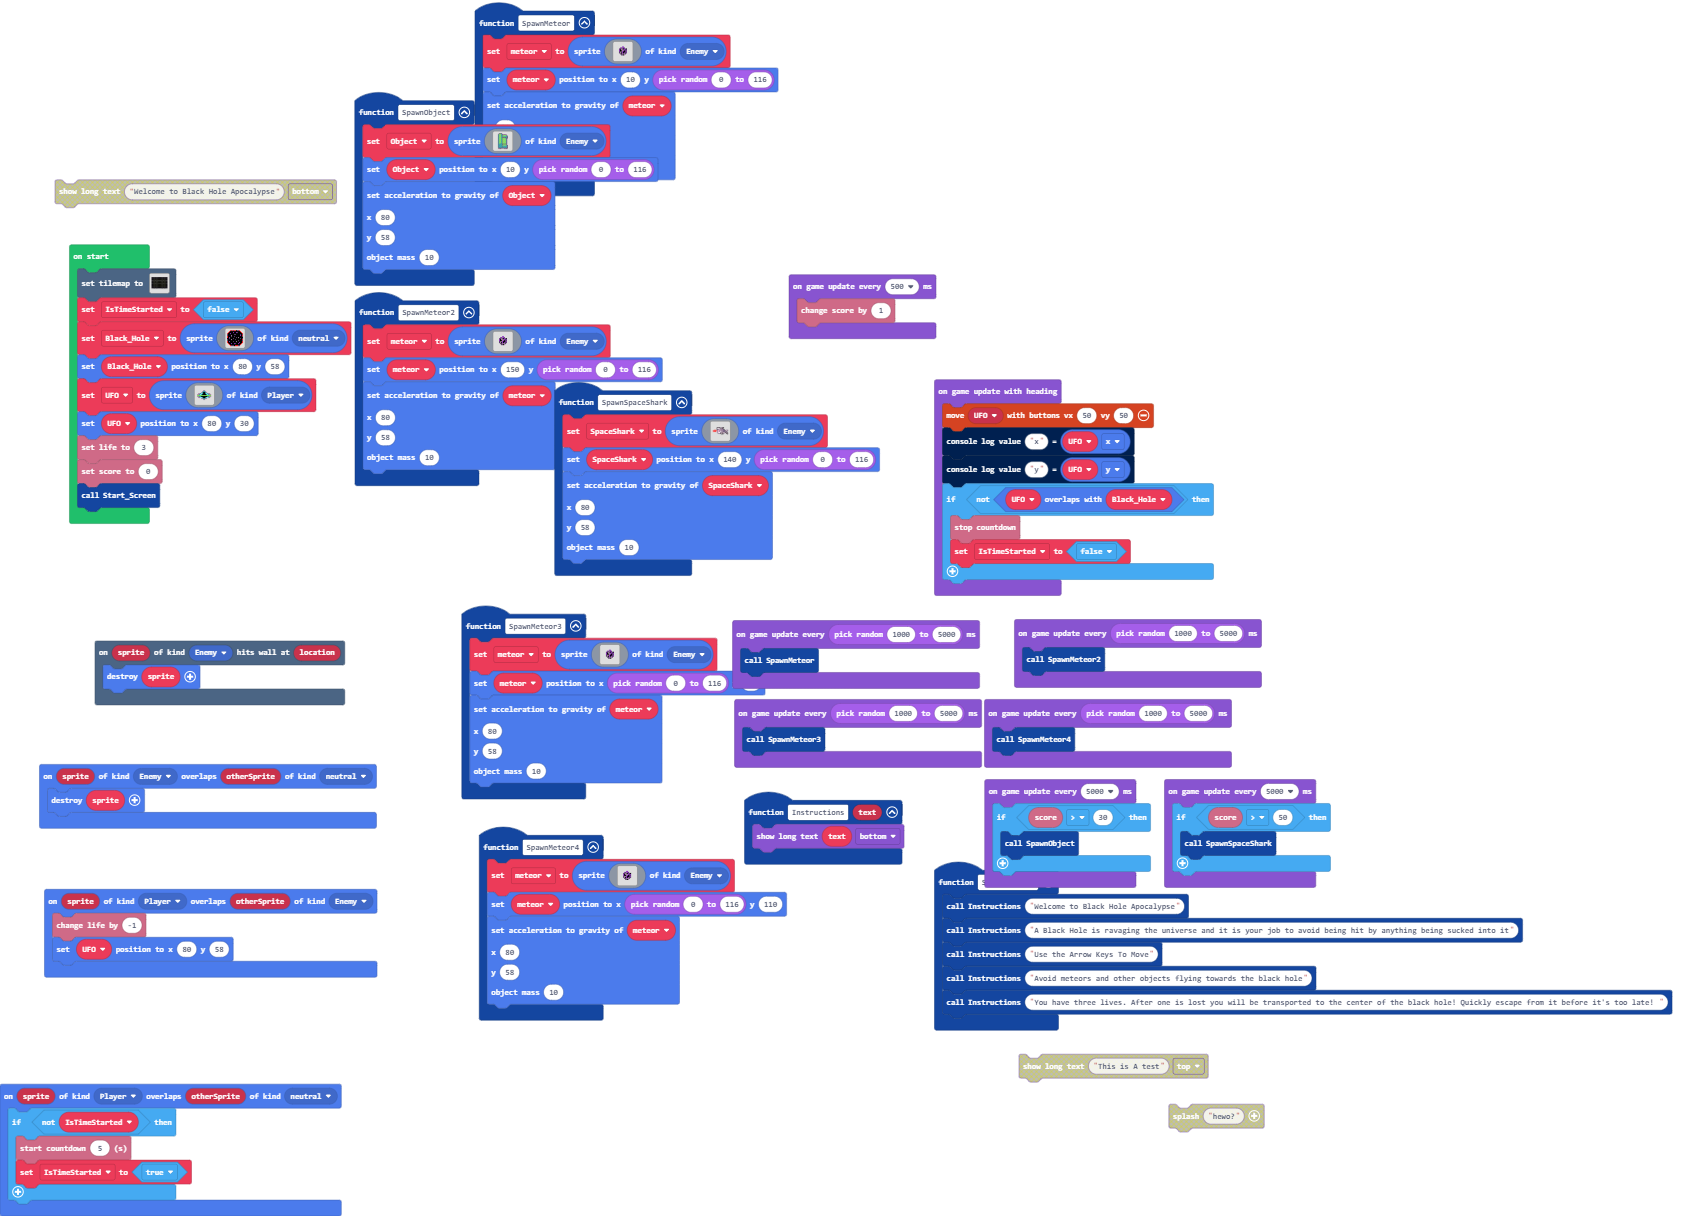
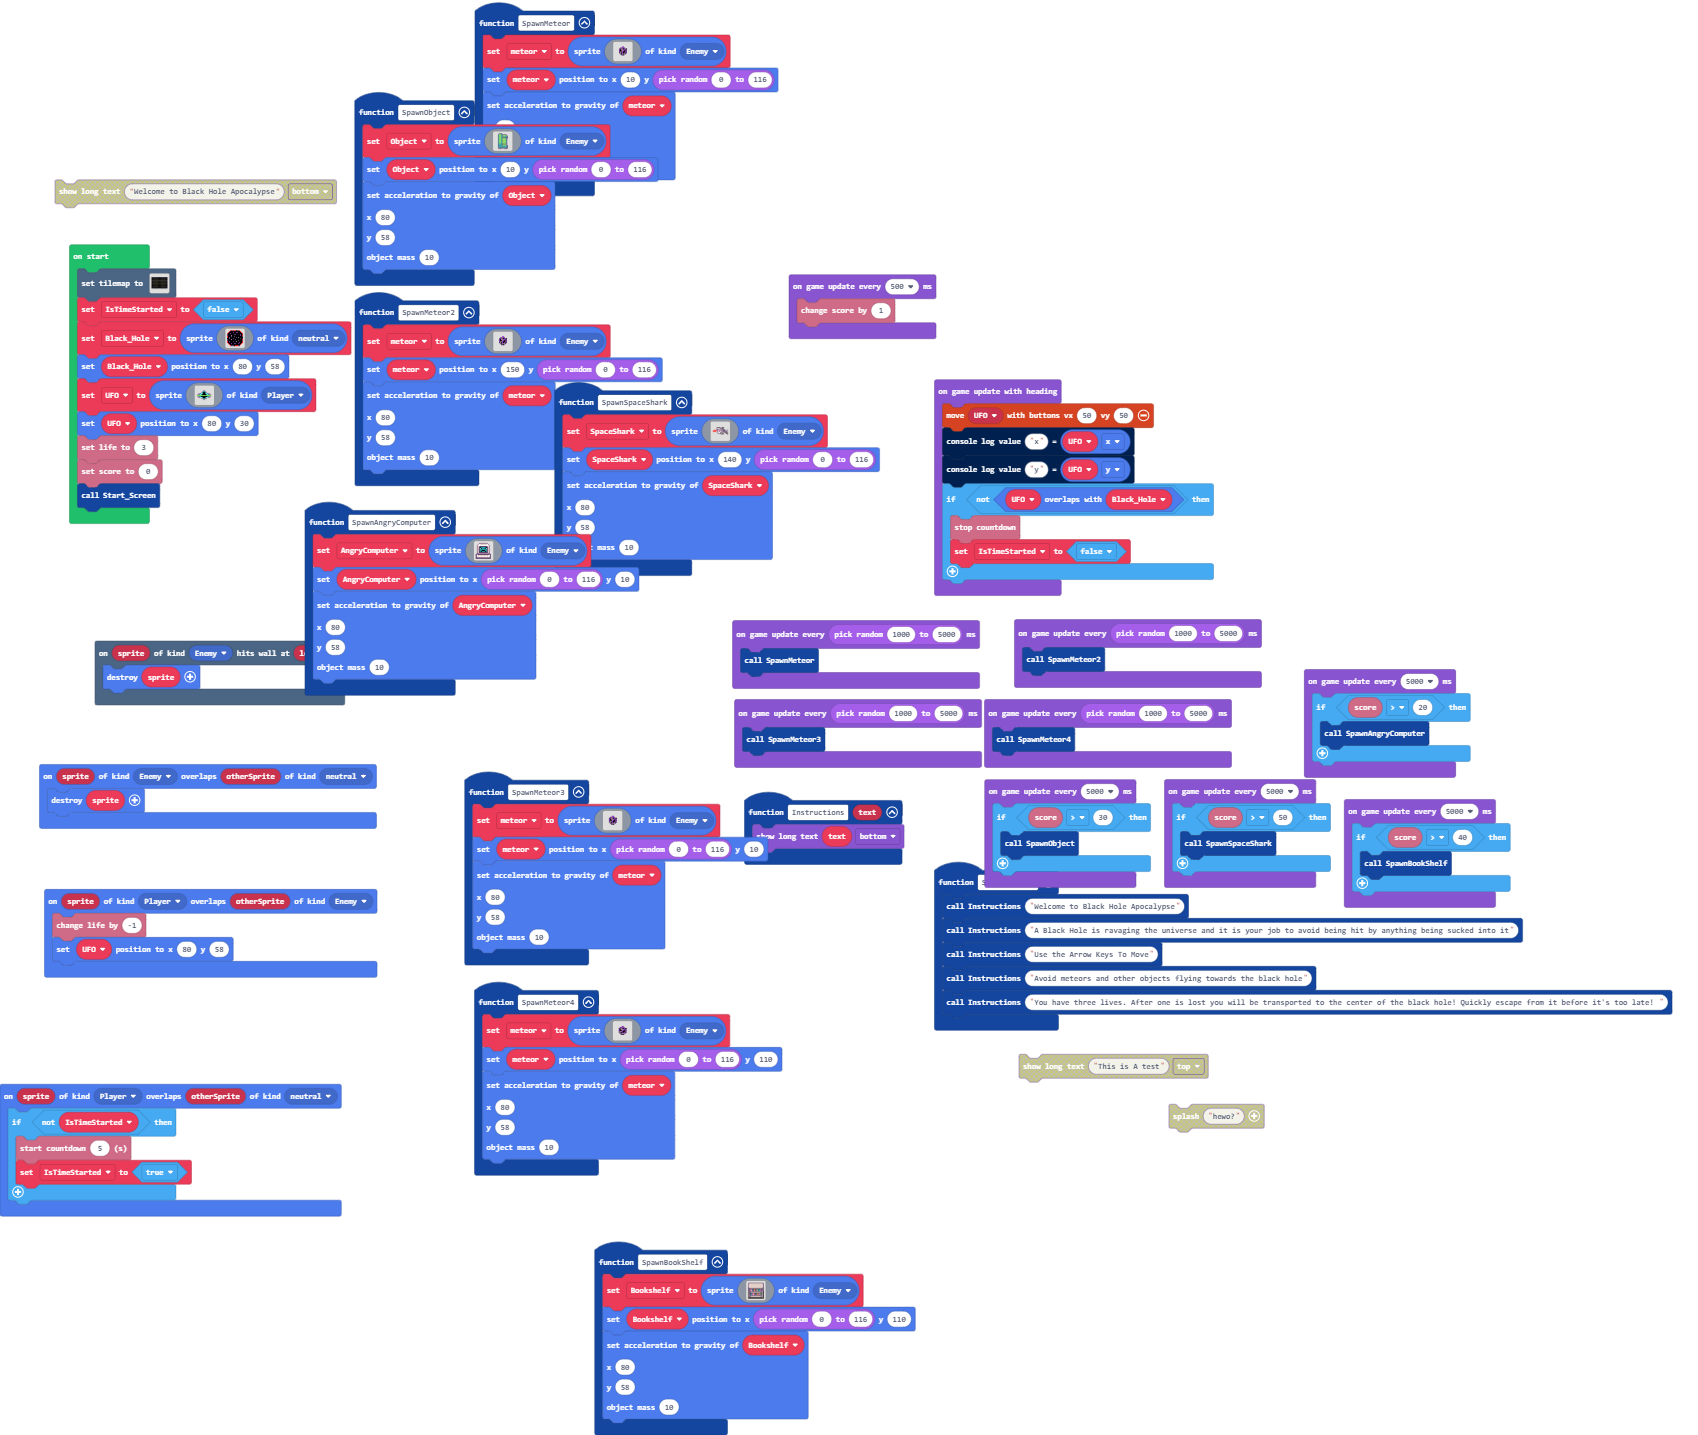
Update main.blocks, main.ts

diff --git a/main.ts b/main.ts
@@ -91,6 +91,41 @@ function SpawnMeteor2 () {
     10
     )
 }
+function SpawnBookShelf () {
+    Bookshelf = sprites.create(img`
+        . c c c c c c c c c c c c c c c c c c c c c c . 
+        c b d d d d d d d d d d d d d d d d d d d d b c 
+        c d d d d d d d d d d d d d d d d d d d d d d c 
+        c d d d d d d d d d d d d d d d d d d d d d d c 
+        c d d d d d d d d d d d d d d d d d d d d d d c 
+        c d d d d d d d d d d d d d d d d d d d d d d c 
+        c d d d d d d d d d d d d d d d d d d d d d d c 
+        c b d d d d d d d d d d d d d d d d d d d d b c 
+        c c b b b b b b b b b b b b b b b b b b b b c c 
+        c c f f f f f f f f f f f f f f f f f f f f c c 
+        c b c c 3 3 c 6 c 4 4 c 3 c 7 c 6 6 c 3 c c b c 
+        c b c c 3 3 c 6 c 4 4 c 3 c 7 c 6 6 c 3 c c b c 
+        f b c c 3 3 c 6 c 4 4 c c c 7 c 6 6 c 3 c c b f 
+        f d c c c c c c c c c c c c c c c c c c c c d f 
+        f d c b b d d d d d d d d d d d d d d b b c d f 
+        f d f f f f f f f f f f f f f f f f f f f f d f 
+        f d c c c 6 c 3 3 c 4 c 6 c 4 4 c 3 c 7 c c d f 
+        f d c c c 6 c 3 3 c 4 c 6 c 4 4 c 3 c 7 c c d f 
+        f d c c c 6 c 3 3 c c c 6 c 4 4 c c c 7 c c d f 
+        f d c c c c c c c c c c c c c c c c c c c c d f 
+        f d c b b d d d d d d d d d d d d d d b b c d f 
+        f d c b b d d d d d d d d d d d d d d b b c d f 
+        f d f f f f f f f f f f f f f f f f f f f f d f 
+        f f f f f f f f f f f f f f f f f f f f f f f f 
+        `, SpriteKind.Enemy)
+    Bookshelf.setPosition(randint(0, 116), 110)
+    sprites.setInstant2DGravityAcceleration(
+    Bookshelf,
+    80,
+    58,
+    10
+    )
+}
 function Instructions (text: string) {
     game.showLongText(text, DialogLayout.Bottom)
 }
@@ -116,6 +151,33 @@ function SpawnMeteor4 () {
     meteor.setPosition(randint(0, 116), 110)
     sprites.setInstant2DGravityAcceleration(
     meteor,
+    80,
+    58,
+    10
+    )
+}
+function SpawnAngryComputer () {
+    AngryComputer = sprites.create(img`
+        . . . b b b b b b b b b . . . . 
+        . . b 1 d d d d d d d 1 b . . . 
+        . b 1 1 1 1 1 1 1 1 1 1 1 b . . 
+        . b d b c c c c c c c b d b . . 
+        . b d c f 6 6 6 6 6 f c d b . . 
+        . b d c 9 f 6 6 6 f 9 c d b . . 
+        . b d c 6 6 6 6 6 6 6 c d b . . 
+        . b d c 6 6 f f f 6 6 c d b . . 
+        . b d c 6 f 6 6 6 f 6 c d b . . 
+        . b d c c c c c c c c c d b . . 
+        . c b b b b b b b b b b b c . . 
+        c b c c c c c c c c c c c b c . 
+        c 1 d d d d d d d d d d d 1 c . 
+        c 1 d 1 1 d 1 1 d 1 1 d 1 1 c . 
+        c b b b b b b b b b b b b b c . 
+        c c c c c c c c c c c c c c c . 
+        `, SpriteKind.Enemy)
+    AngryComputer.setPosition(randint(0, 116), 10)
+    sprites.setInstant2DGravityAcceleration(
+    AngryComputer,
     80,
     58,
     10
@@ -207,6 +269,8 @@ sprites.onOverlap(SpriteKind.Player, SpriteKind.Enemy, function (sprite, otherSp
     UFO.setPosition(80, 58)
 })
 let Object2: Sprite = null
+let AngryComputer: Sprite = null
+let Bookshelf: Sprite = null
 let SpaceShark: Sprite = null
 let meteor: Sprite = null
 let UFO: Sprite = null
@@ -264,6 +328,11 @@ info.setLife(3)
 info.setScore(0)
 Start_Screen()
 game.onUpdateInterval(5000, function () {
+    if (info.score() > 20) {
+        SpawnAngryComputer()
+    }
+})
+game.onUpdateInterval(5000, function () {
     if (info.score() > 30) {
         SpawnObject()
     }
@@ -271,6 +340,11 @@ game.onUpdateInterval(5000, function () {
 game.onUpdateInterval(5000, function () {
     if (info.score() > 50) {
         SpawnSpaceShark()
+    }
+})
+game.onUpdateInterval(5000, function () {
+    if (info.score() > 40) {
+        SpawnBookShelf()
     }
 })
 game.onUpdateInterval(randint(1000, 5000), function () {
